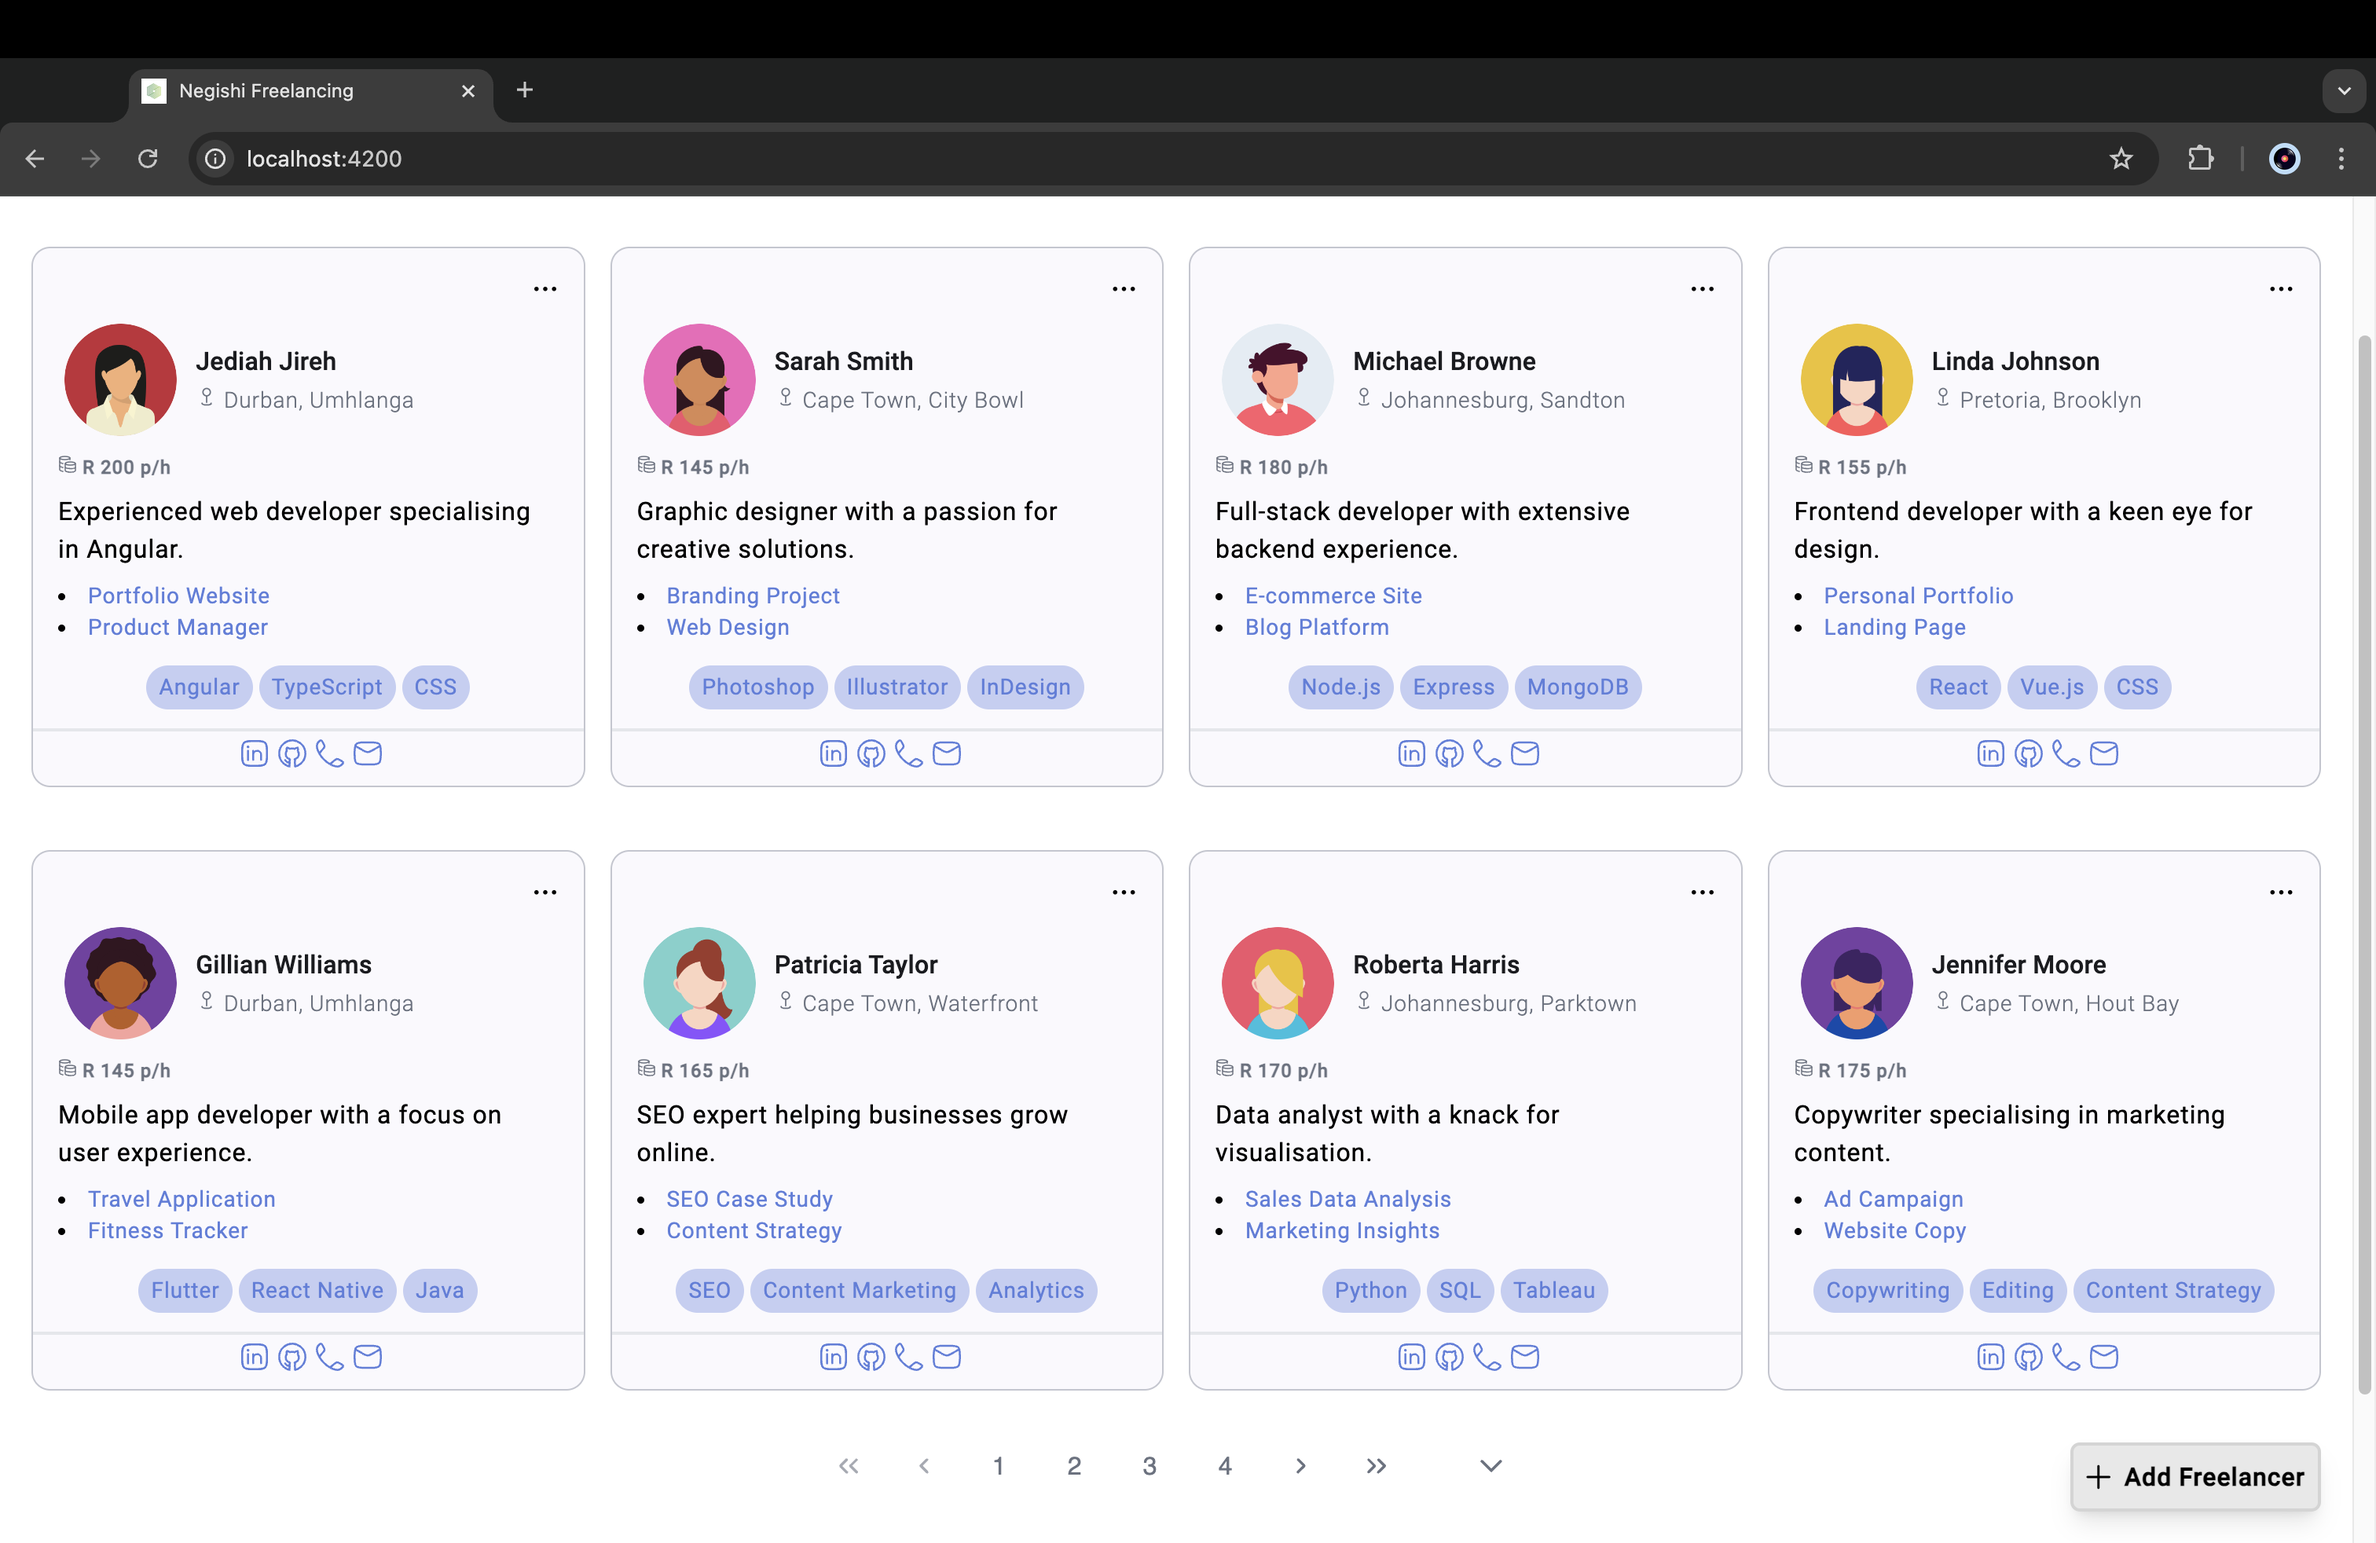
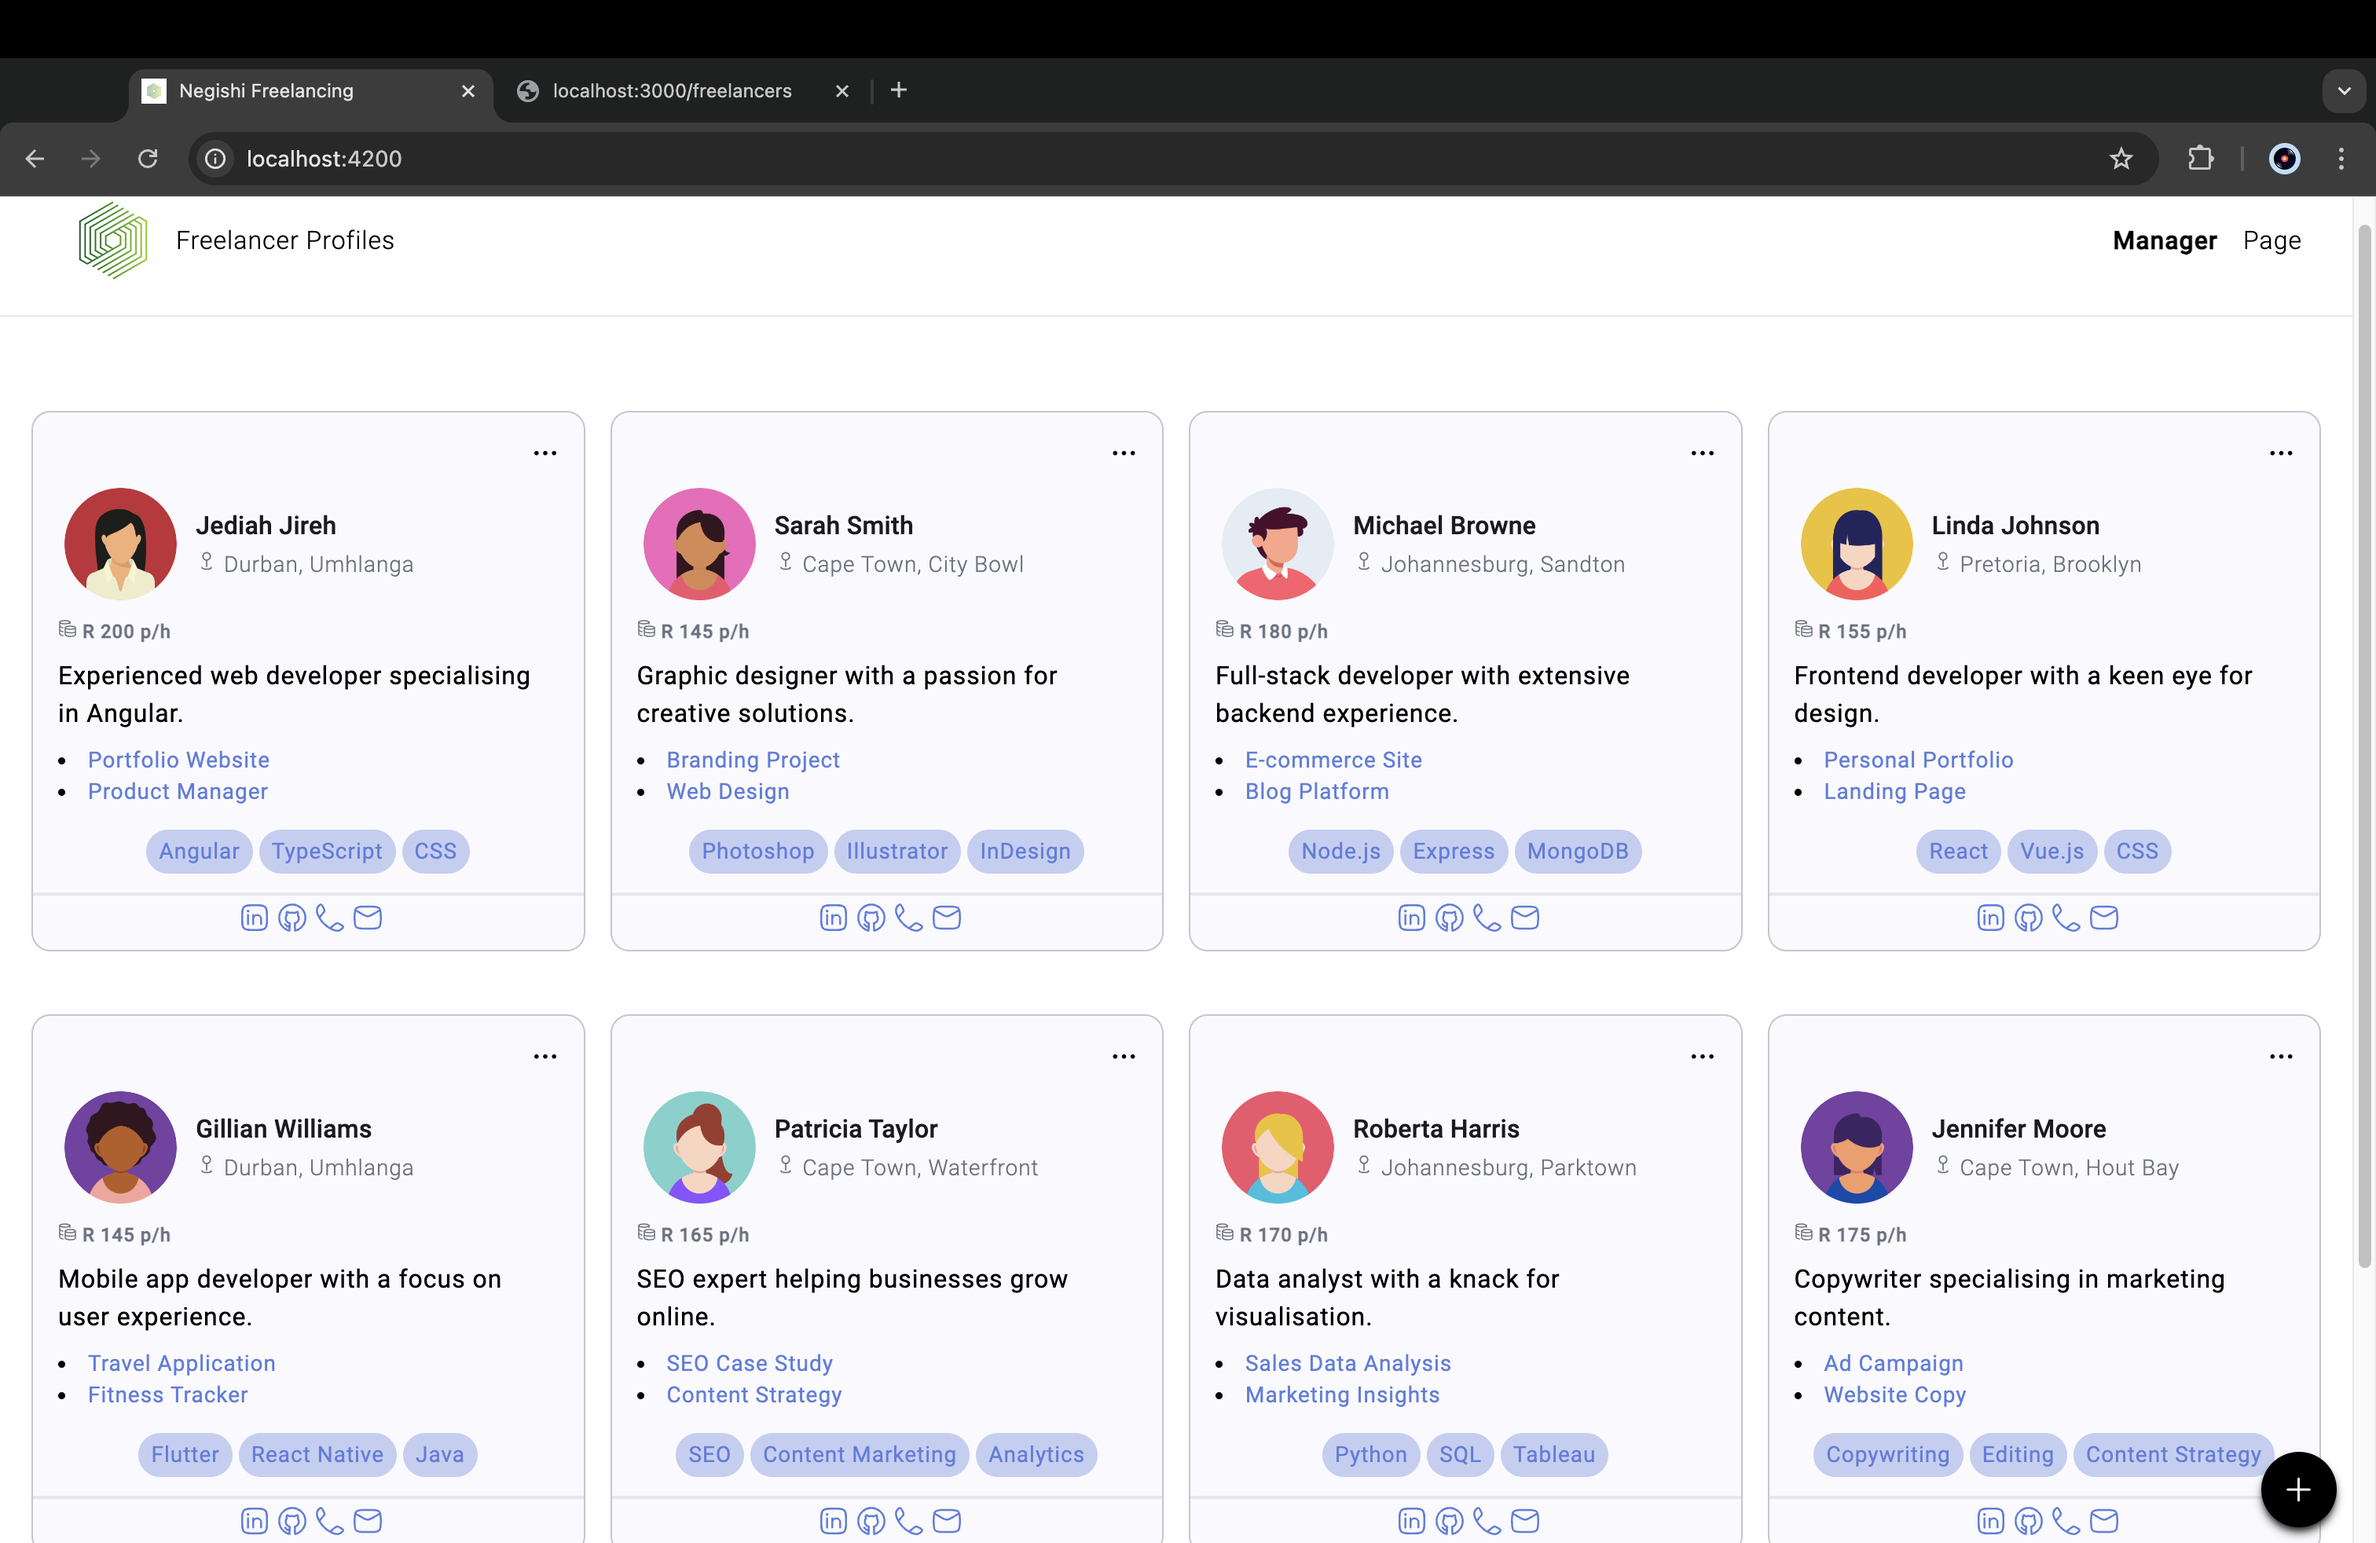
deploy: replace localhost endpoints with live website links and update vercel.json to version 2 style: refine floating add freelancer button

diff --git a/frontend/src/app/freelancer-listings/freelancer-listings.component.html b/frontend/src/app/freelancer-listings/freelancer-listings.component.html
@@ -10,15 +10,16 @@
 
 <div class="flex flex-col gap-4" *ngIf="freelancers && freelancers.length > 0">
   <!-- add freelancer button -->
-  <button
-    title="Add Freelancer Button"
-    type="button"
-    pButton
-    icon="pi pi-plus"
-    (click)="toggleAddPopup()"
-    label="Add Freelancer"
-    class="add-freelancer-button p-2 border-2 border-neutral-300 fixed bottom-5 right-5 z-10 bg-neutral-400 bg-opacity-25 shadow-lg transition-shadow hover:shadow-md"
-  ></button>
+  <div class="rounded-full">
+    <button
+      title="Add Freelancer Button"
+      type="button"
+      pButton
+      icon="pi pi-plus"
+      (click)="toggleAddPopup()"
+      class="add-freelancer-button text-2xl rounded-full p-2 fixed bottom-2.5 right-2.5 z-10 text-white bg-black shadow-md transition-shadow hover:shadow-md shadow-neutral-800"
+    ></button>
+  </div>
 
   <!-- display freelancers -->
   <div

diff --git a/frontend/src/app/modules/freelancer-profile/freelancer-profile/freelancer-profile.component.html b/frontend/src/app/modules/freelancer-profile/freelancer-profile/freelancer-profile.component.html
@@ -8,14 +8,19 @@
   [enableService]="true"
 />
 
-<div class="flex flex-col gap-4" *ngIf="freelancer">
+<div
+  class="flex flex-col gap-4 place-content-center place-items-center justify-center"
+  *ngIf="freelancer"
+>
   <!-- display freelancer profile data (card) -->
-  <app-freelancer
-    class="flex-grow-1"
-    [freelancer]="freelancer"
-    (edit)="toggleEditPopup(freelancer)"
-    (delete)="toggleDeletePopup(freelancer)"
-  />
+  <div class="md:w-[70%] sm:w-[80%] lg:w-[60%]">
+    <app-freelancer
+      class="flex-grow-0.5"
+      [freelancer]="freelancer"
+      (edit)="toggleEditPopup(freelancer)"
+      (delete)="toggleDeletePopup(freelancer)"
+    />
+  </div>
 
   <!-- edit freelancer popup -->
   <app-edit-popup

diff --git a/frontend/src/app/services/freelancers.service.ts b/frontend/src/app/services/freelancers.service.ts
@@ -9,8 +9,9 @@ import { ApiService } from './api.service';
 
 // encapsulate business logic
 export class FreelancersService {
-  // base URL for the API
-  private baseUrl: string = 'http://localhost:3000/freelancers';
+  // base URL for the API (http://localhost:3000/freelancers)
+  private baseUrl: string =
+    'https://freelancer-profile-server.vercel.app/freelancers';
 
   constructor(private apiService: ApiService) {}
 

diff --git a/backend/server.js b/backend/server.js
@@ -10,7 +10,7 @@ const port = 3000;
 
 // cors configuration - allow requests from frontend (http://localhost:4200)
 const corsOptions = {
-  origin: "http://localhost:4200",
+  origin: "https://freelancer-profile-manager.vercel.app",
   optionsSuccessStatus: 204,
   methods: "GET, POST, PUT, DELETE",
 };

diff --git a/frontend/src/app/freelancer-listings/freelancer-listings.component.css b/frontend/src/app/freelancer-listings/freelancer-listings.component.css
@@ -1,0 +1,17 @@
+/*
+spin animation
+@keyframes spin {
+  from {
+    transform: rotate(0deg);
+  }
+
+  to {
+    transform: rotate(90deg);
+  }
+}
+
+spin effect on hover
+.add-freelancer-button:hover {
+  animation: spin 2s linear;
+}
+*/

diff --git a/README.md b/README.md
@@ -43,6 +43,9 @@ Here are some screenshots of the project in action:
 - **Freelancer Listings:**
   ![Freelancer Listings](./docs/screenshots/freelancer-listings.png)
 
+- **Freelancer Listings:**
+  ![Freelancer Listings](./docs/screenshots/pagination.png)
+
 - **Freelancer Profile Page:**
   ![Freelancer Profile](./docs/screenshots/freelancer-profile.png)
 
@@ -55,7 +58,7 @@ Here are some screenshots of the project in action:
 - **Deleted Freelancer:**
   ![Deleted Freelancer](./docs/screenshots/deleted-freelancer.png)
 
-- **Card Actions:**
+- **Card Actions & Accessibility:**
   ![Pagination](./docs/screenshots/card-actions.png)
 
 - **Popup Validation:**
@@ -174,6 +177,8 @@ Freelancer data is managed using the following JSON structure in [`freelancers.j
 
 Replace live website links with localhost endpoints in development.
 
+- Backend: [server.js](/backend/server.js) (replace link to frontend):
+
 ```javascript
 // cors configuration - allow requests from frontend (https://localhost:4200)
 const corsOptions = {
@@ -183,13 +188,11 @@ const corsOptions = {
 };
 ```
 
-- Backend: [server.js](/backend/server.js) (replace link to frontend)
+- Frontend: [freelancers.service.ts](/frontend/src/app/services/freelancers.service.ts) (replace link to backend API)
 
 ```typescript
 // base URL for the API
 private baseUrl: string = 'http://localhost:3000/freelancers';
 ```
-
-- Frontend: [freelancers.service.ts](/frontend/src/app/services/freelancers.service.ts) (replace links to backend API)
 
 ---

diff --git a/docs/todo.md b/docs/todo.md
@@ -17,7 +17,6 @@
 - [x] Notification service
 - [x] Clean card design
 - [x] Responsive design
-- [ ] Search freelancer profiles
 - [x] Form validation
 - [x] Profile Manager Component
 - [x] Add GET request to fetch a specific freelancer - backend
@@ -26,3 +25,4 @@
 - [x] Update routes to include freelancer profile page
 - [x] Add pipe for retrieving the current year for footer display
 - [x] Configure header for profile page
+- [x] Refine 'Add Freelancer' floating button
